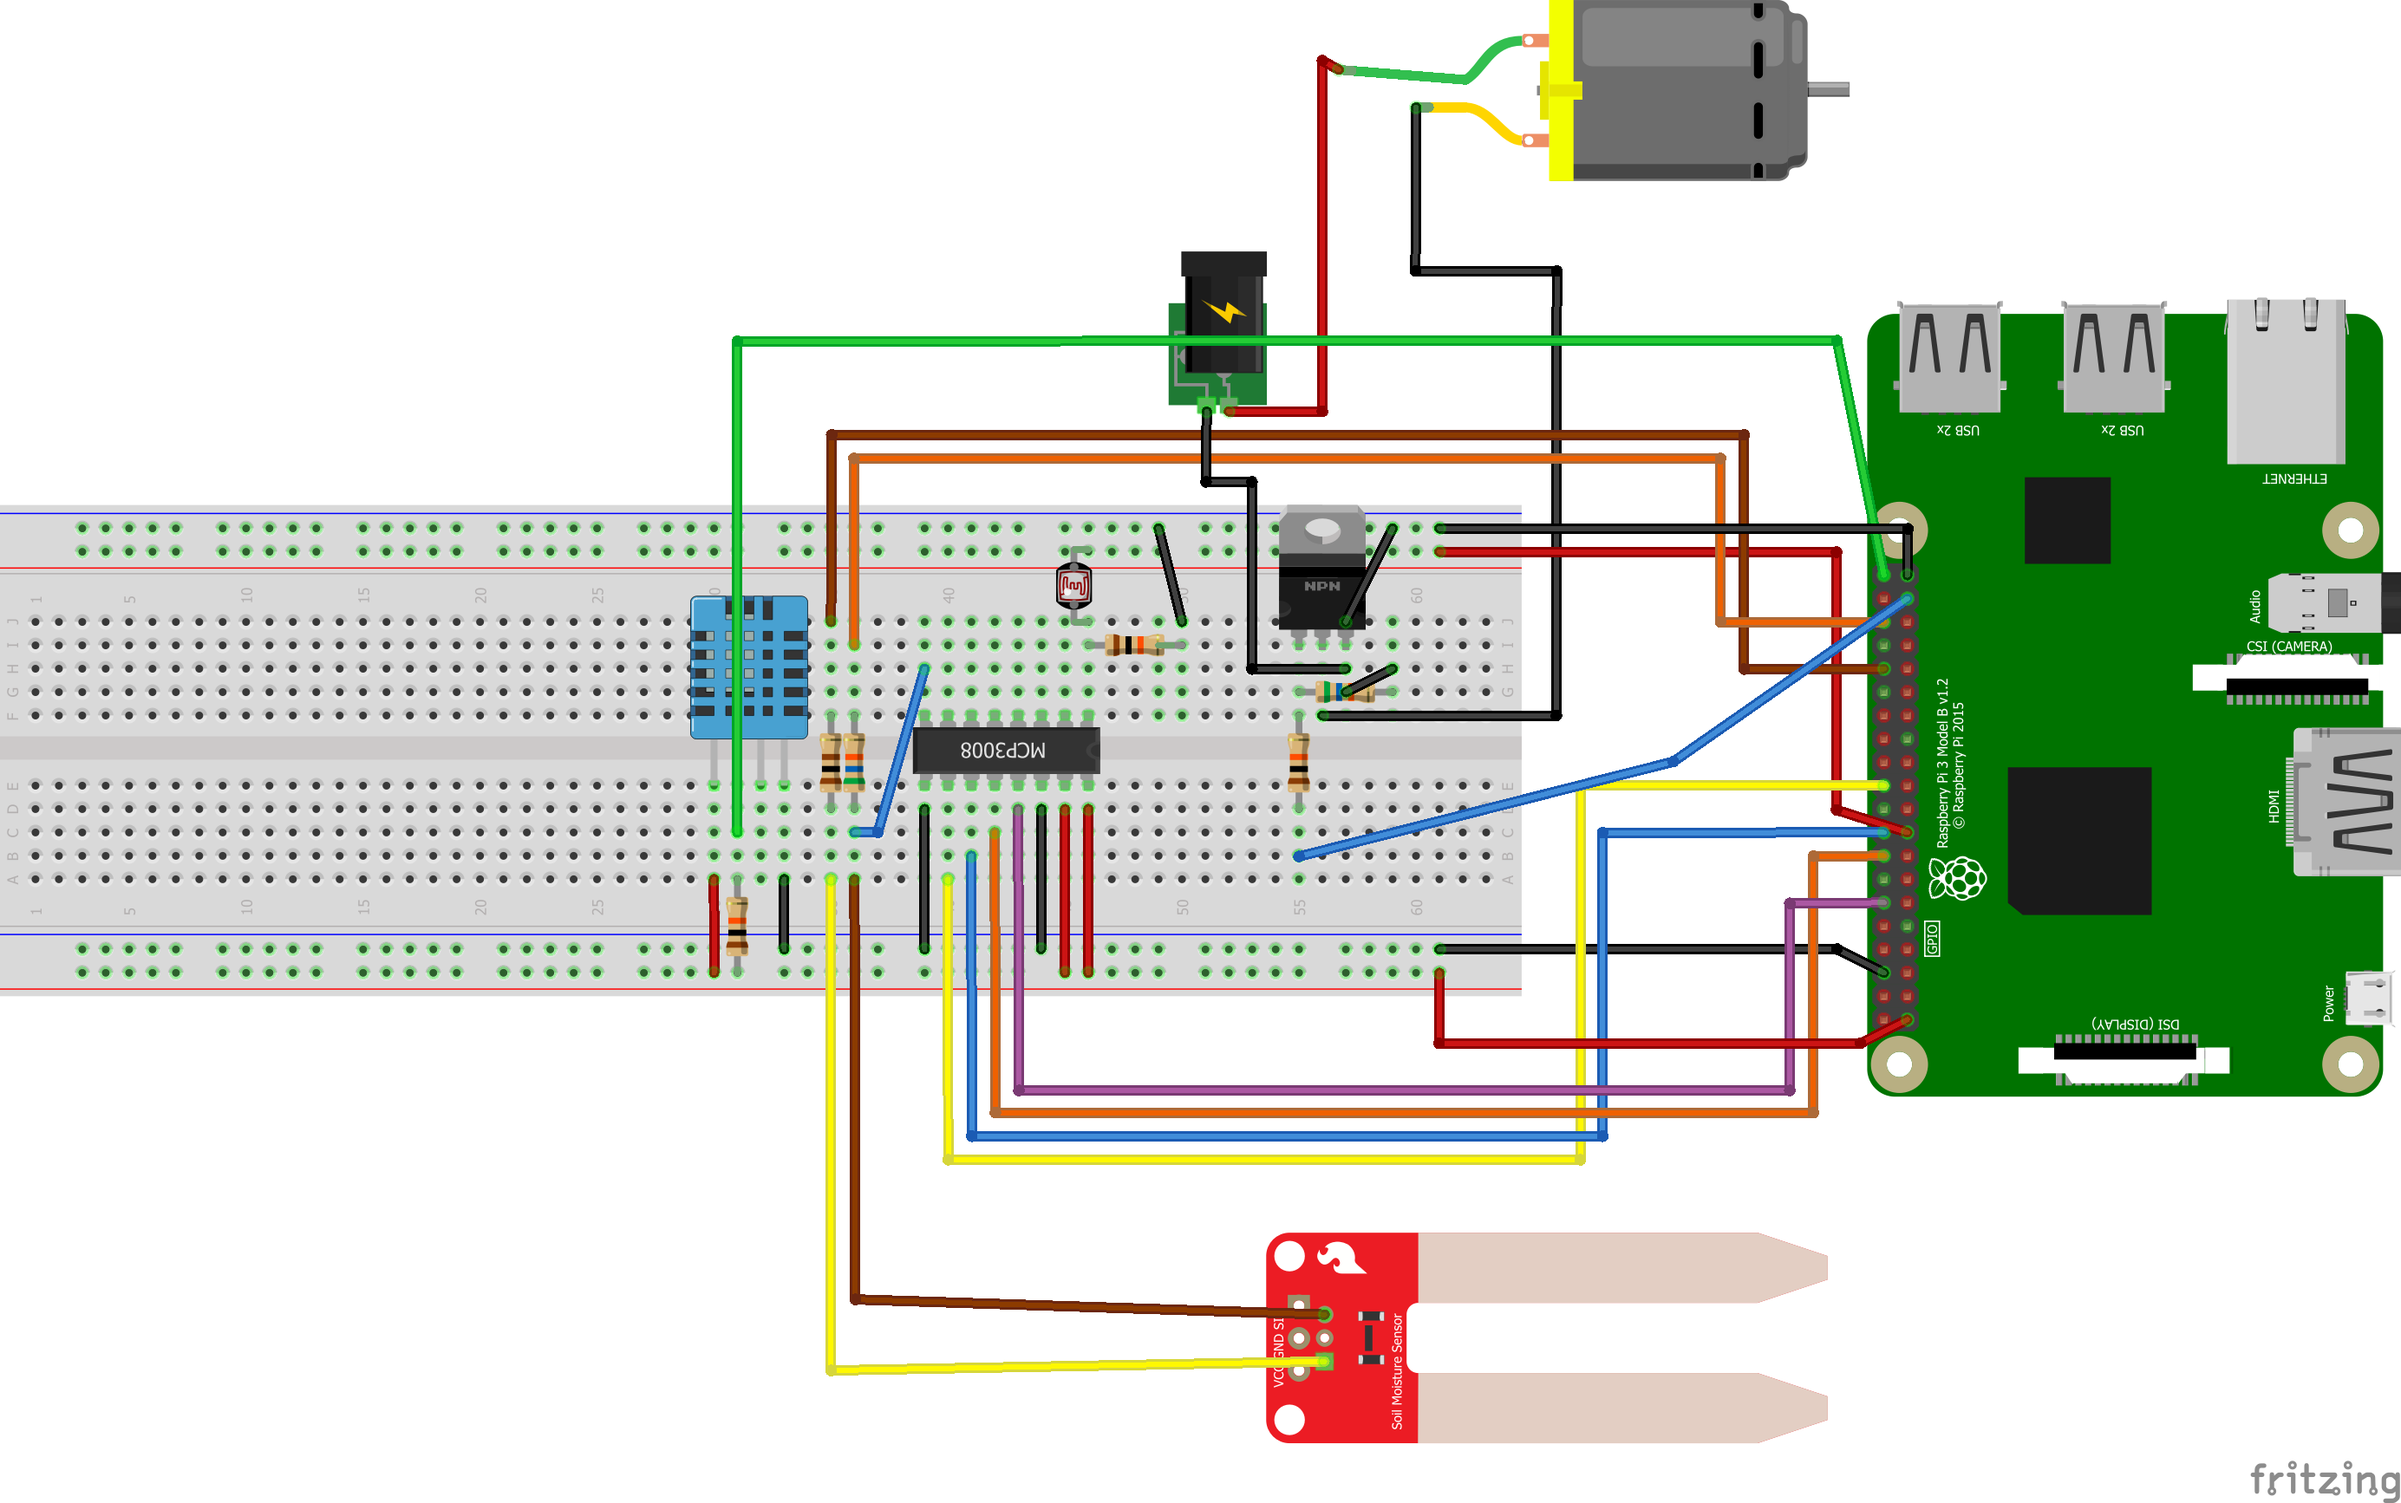
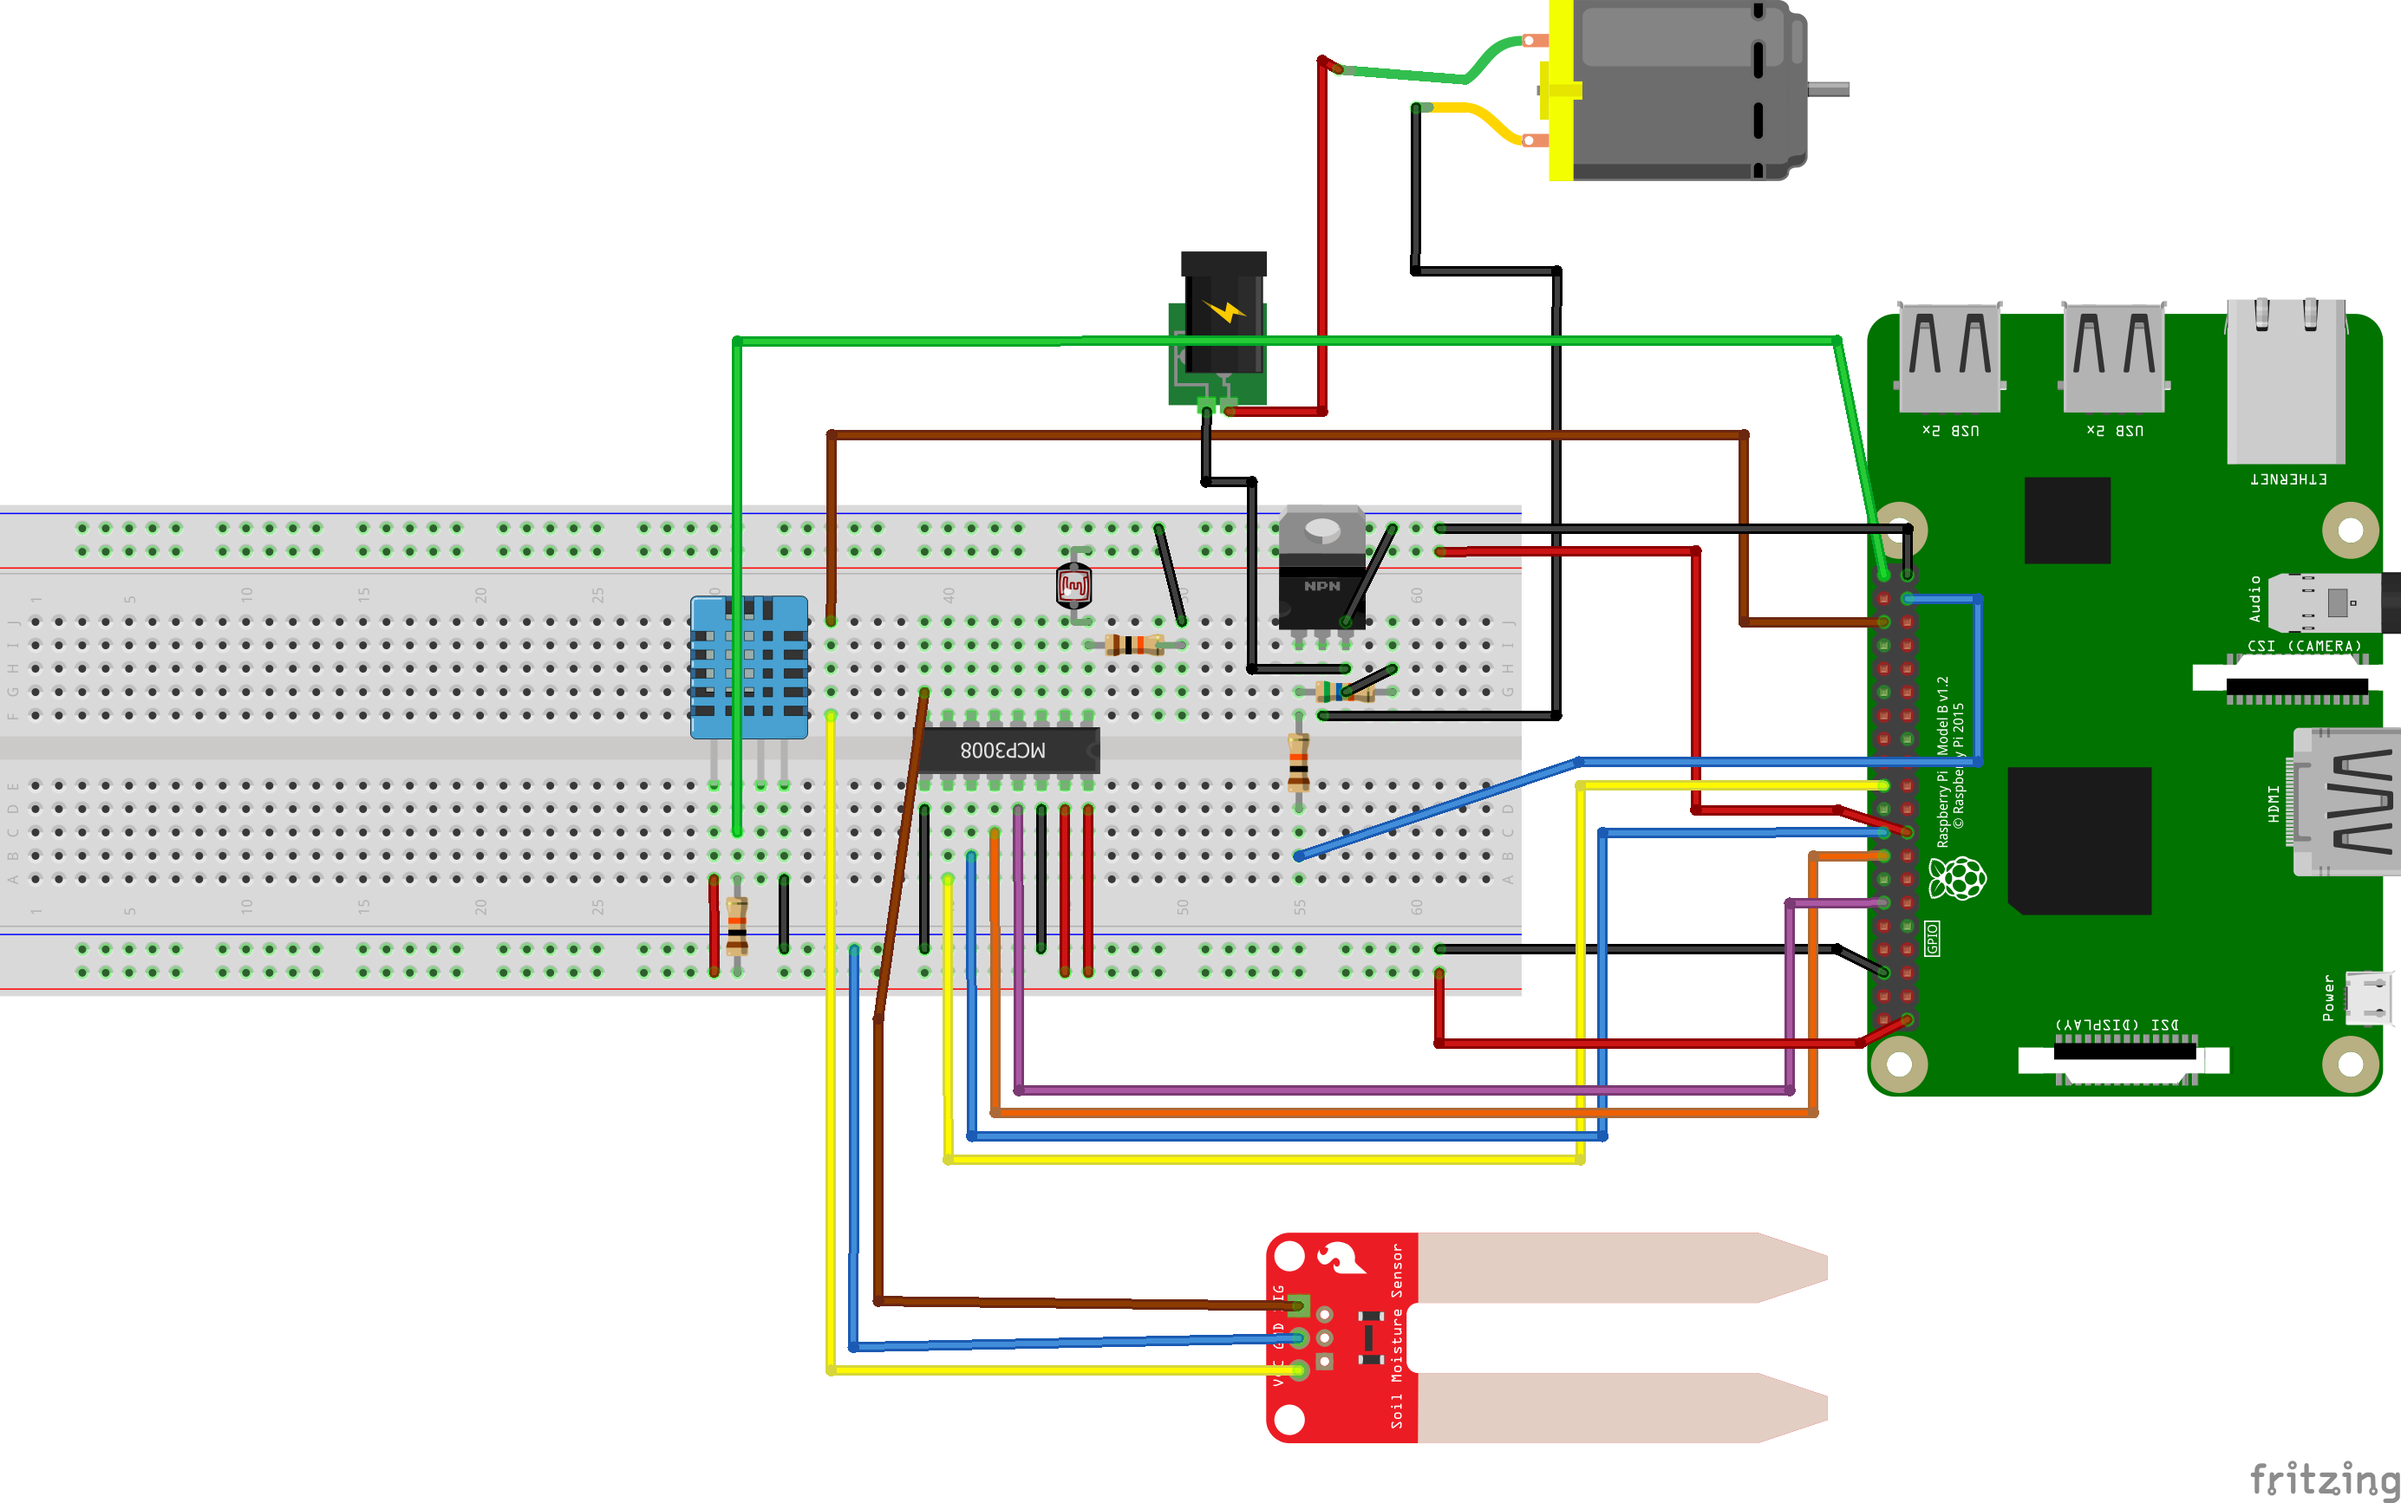
Switching from PlantFriends soil sensor to SparkFun (#146)
* Switching from PlantFriends soil sensor to SparkFun

Changes code to use the SparkFun soil moisture sensor instead of the
PlantFriends soil moisture sensor. The SparkFun cannot reverse its polarity
like the PlantFriends, so it is constantly connected to ground and only needs
one GPIO pin to flip up and down for readings.

Updates the code and the Fritzing diagram.

* Changing soil moisture GPIO pin to GPIO16

* Fixing pins -> pin

diff --git a/greenpithumb/soil_moisture_sensor.py b/greenpithumb/soil_moisture_sensor.py
@@ -6,7 +6,7 @@ logger = logging.getLogger(__name__)
 class SoilMoistureSensor(object):
     """Wrapper for a moisture sensor."""
 
-    def __init__(self, adc, pi_io, channel, gpio_pin_1, gpio_pin_2, clock):
+    def __init__(self, adc, pi_io, channel, gpio_pin):
         """Creates a new SoilMoistureSensor instance.
 
         Args:
@@ -15,43 +15,24 @@ class SoilMoistureSensor(object):
             pi_io: Raspberry Pi I/O interface.
             channel: ADC channel to which the moisture sensor is connected. Must
                 be an int between 0 and 7.
-            gpio_pin_1: One of the Raspberry Pi GPIO pins that the moisture
-                sensor is connected to. Must be an int between 2 and 27.
-            gpio_pin_2: The other GPIO pin that the moisture sensor is connected
-                to. Must be an int between 2 and 27.
-            clock: Clock interface.
+            gpio_pin: The Raspberry Pi GPIO pin that the moisture sensor is
+                connected to. Must be an int between 2 and 27.
         """
         self._adc = adc
         self._pi_io = pi_io
         self._channel = channel
-        self._gpio_pin_1 = gpio_pin_1
-        self._gpio_pin_2 = gpio_pin_2
-        self._clock = clock
+        self._gpio_pin = gpio_pin
 
     def soil_moisture(self):
         """Returns the soil moisture level.
 
-        Takes two readings from the moisture sensor with the GPIO pins powering
-        it alternately turned on and off (one in each state). Returns the
-        average of the two readings.
+        Takes a reading from the moisture sensor by powering the GPIO pin the
+        sensor is connected to.
         """
         try:
-            self._pi_io.turn_pin_on(self._gpio_pin_1)
-            self._pi_io.turn_pin_off(self._gpio_pin_2)
-            moisture_one = self._adc.read_adc(self._channel)
-            logger.info('soil moisture reading (1 of 2) = %d', moisture_one)
-
-            # We need to turn off both pins before the sleep so that the charge
-            # has time to dissipate before the next read.
-            self._pi_io.turn_pin_off(self._gpio_pin_1)
-            self._clock.wait(0.1)
-
-            self._pi_io.turn_pin_on(self._gpio_pin_2)
-            self._pi_io.turn_pin_off(self._gpio_pin_1)
-            moisture_two = 1023 - self._adc.read_adc(self._channel)
-            logger.info('soil moisture reading (2 of 2) = %d', moisture_two)
-
-            return (moisture_one + moisture_two) / 2
+            self._pi_io.turn_pin_on(self._gpio_pin)
+            moisture = self._adc.read_adc(self._channel)
+            logger.info('soil moisture reading = %d', moisture)
+            return moisture
         finally:
-            self._pi_io.turn_pin_off(self._gpio_pin_1)
-            self._pi_io.turn_pin_off(self._gpio_pin_2)
+            self._pi_io.turn_pin_off(self._gpio_pin)

diff --git a/tests/test_wiring_config_parser.py b/tests/test_wiring_config_parser.py
@@ -14,8 +14,7 @@ class WiringConfigParserTest(unittest.TestCase):
 [gpio_pins]
 pump: 26
 dht11: 21
-soil_moisture_1: 16
-soil_moisture_2: 12
+soil_moisture: 16
 mcp3008_clk: 18
 mcp3008_dout: 23
 mcp3008_din: 24
@@ -27,8 +26,7 @@ light_sensor: 6
 """)
         self.assertEquals(wiring_config.gpio_pins.pump, 26)
         self.assertEquals(wiring_config.gpio_pins.dht11, 21)
-        self.assertEquals(wiring_config.gpio_pins.soil_moisture_1, 16)
-        self.assertEquals(wiring_config.gpio_pins.soil_moisture_2, 12)
+        self.assertEquals(wiring_config.gpio_pins.soil_moisture, 16)
         self.assertEquals(wiring_config.gpio_pins.mcp3008_clk, 18)
         self.assertEquals(wiring_config.gpio_pins.mcp3008_dout, 23)
         self.assertEquals(wiring_config.gpio_pins.mcp3008_din, 24)
@@ -42,8 +40,7 @@ light_sensor: 6
 [gpio_pins]
 pump: 26
 dht11: 21
-soil_moisture_1: 16
-soil_moisture_2: 12
+soil_moisture: 16
 mcp3008_clk: 18
 mcp3008_dout: 23
 mcp3008_din: 24
@@ -81,8 +78,7 @@ light_sensor: 6
 [gpio_pins]
 
 dht11: 21
-soil_moisture_1: 16
-soil_moisture_2: 12
+soil_moisture: 16
 mcp3008_clk: 18
 mcp3008_dout: 23
 mcp3008_din: 24
@@ -101,8 +97,7 @@ light_sensor: 6
             wiring_config_parser.parse("""
 [gpio_pins]
 dht11: 21
-soil_moisture_1: 16
-soil_moisture_2: 12
+soil_moisture: 16
 mcp3008_clk: 18
 mcp3008_dout: 23
 mcp3008_din: 24
@@ -123,8 +118,7 @@ light_sensor: 6
 [gpio_pins]
 pump: 26
 dht11: 21
-soil_moisture_1: 16
-soil_moisture_2: 12
+soil_moisture: 16
 mcp3008_clk: 18
 mcp3008_dout: 23
 mcp3008_din: 24
@@ -143,8 +137,7 @@ light_sensor: 6
 [gpio_pins]
 pump: 26
 dht11: 21
-soil_moisture_1: 16
-soil_moisture_2: 12
+soil_moisture: 16
 mcp3008_clk: 18
 mcp3008_dout: 23
 mcp3008_din: 24
@@ -163,8 +156,7 @@ soil_moisture_sensor: -1
 [gpio_pins]
 pump: 26
 dht11: 21
-soil_moisture_1: 16
-soil_moisture_2: 12
+soil_moisture: 16
 mcp3008_clk: 18
 mcp3008_dout: 23
 mcp3008_din: 24
@@ -183,8 +175,7 @@ soil_moisture_sensor: 8
 [gpio_pins]
 pump: 26
 dht11: 21
-soil_moisture_1: 16
-soil_moisture_2: 12
+soil_moisture: 16
 mcp3008_clk: 18
 mcp3008_dout: 23
 mcp3008_din: 24
@@ -203,8 +194,7 @@ soil_moisture_sensor: banana
 [gpio_pins]
 pump: 26
 dht11: 21
-soil_moisture_1: 16
-soil_moisture_2: 12
+soil_moisture: 16
 mcp3008_clk: 18
 mcp3008_dout: 23
 mcp3008_din: 24

diff --git a/tests/test_soil_moisture_sensor.py b/tests/test_soil_moisture_sensor.py
@@ -21,40 +21,27 @@ class MoistureSensorTest(unittest.TestCase):
         self.mock_pi_io = mock.Mock()
         self.mock_pi_io.turn_pin_on.side_effect = mock_turn_pin_on
         self.mock_pi_io.turn_pin_off.side_effect = mock_turn_pin_off
-        self.mock_clock = mock.Mock()
 
     def test_moisture_read_succeeds_when_adc_succeeds(self):
-        """Moisture level read should be the average of the two readings."""
-        self.mock_adc.read_adc.side_effect = [300, (1023 - 400)]
+        self.mock_adc.read_adc.return_value = 350
         channel = 1
-        gpio_pin_1 = 12
-        gpio_pin_2 = 16
+        gpio_pin = 12
         sensor = soil_moisture_sensor.SoilMoistureSensor(
-            self.mock_adc, self.mock_pi_io, channel, gpio_pin_1, gpio_pin_2,
-            self.mock_clock)
+            self.mock_adc, self.mock_pi_io, channel, gpio_pin)
 
         self.assertEqual(350, sensor.soil_moisture())
-        self.assertEqual([mock.call(12), mock.call(16)],
-                         self.mock_pi_io.turn_pin_on.call_args_list)
-        self.assertEqual([
-            mock.call(16), mock.call(12), mock.call(12), mock.call(12),
-            mock.call(16)
-        ], self.mock_pi_io.turn_pin_off.call_args_list)
+        self.mock_pi_io.turn_pin_on.assert_called_once_with(12)
+        self.mock_pi_io.turn_pin_off.assert_called_once_with(12)
         self.assertFalse(self.pin_state[12])
-        self.assertFalse(self.pin_state[16])
-        self.mock_clock.wait.assert_called_once_with(0.1)
 
     def test_moisture_sensor_pins_turned_off_if_adc_raises_exception(self):
         self.mock_adc.read_adc.side_effect = ValueError()
         channel = 1
-        gpio_pin_1 = 12
-        gpio_pin_2 = 16
+        gpio_pin = 12
         sensor = soil_moisture_sensor.SoilMoistureSensor(
-            self.mock_adc, self.mock_pi_io, channel, gpio_pin_1, gpio_pin_2,
-            self.mock_clock)
+            self.mock_adc, self.mock_pi_io, channel, gpio_pin)
 
         with self.assertRaises(ValueError):
             sensor.soil_moisture()
 
         self.assertFalse(self.pin_state[12])
-        self.assertFalse(self.pin_state[16])

diff --git a/greenpithumb/wiring_config_parser.py b/greenpithumb/wiring_config_parser.py
@@ -30,8 +30,8 @@ class DuplicateAdcChannelError(Error):
 
 # Represents GreenPiThumb's Rapsberry Pi GPIO pin configuration.
 _GpioPinConfig = collections.namedtuple('_GpioPinConfig', [
-    'pump', 'dht11', 'soil_moisture_1', 'soil_moisture_2', 'mcp3008_clk',
-    'mcp3008_dout', 'mcp3008_din', 'mcp3008_cs_shdn'
+    'pump', 'dht11', 'soil_moisture', 'mcp3008_clk', 'mcp3008_dout',
+    'mcp3008_din', 'mcp3008_cs_shdn'
 ])
 
 
@@ -173,8 +173,7 @@ def parse(config_data):
         A wiring configuration object with the following properties:
             * gpio_pins.pump
             * gpio_pins.dht11
-            * gpio_pins.soil_moisture_1
-            * gpio_pins.soil_moisture_2
+            * gpio_pins.soil_moisture
             * gpio_pins.mcp3008_clk
             * gpio_pins.mcp3008_dout
             * gpio_pins.mcp3008_din
@@ -188,10 +187,8 @@ def parse(config_data):
         gpio_pin_config = _GpioPinConfig(
             pump=_parse_gpio_pin(raw_parser.get('gpio_pins', 'pump')),
             dht11=_parse_gpio_pin(raw_parser.get('gpio_pins', 'dht11')),
-            soil_moisture_1=_parse_gpio_pin(
-                raw_parser.get('gpio_pins', 'soil_moisture_1')),
-            soil_moisture_2=_parse_gpio_pin(
-                raw_parser.get('gpio_pins', 'soil_moisture_2')),
+            soil_moisture=_parse_gpio_pin(
+                raw_parser.get('gpio_pins', 'soil_moisture')),
             mcp3008_clk=_parse_gpio_pin(
                 raw_parser.get('gpio_pins', 'mcp3008_clk')),
             mcp3008_din=_parse_gpio_pin(

diff --git a/greenpithumb/greenpithumb.py b/greenpithumb/greenpithumb.py
@@ -74,8 +74,7 @@ def make_sensor_pollers(poll_interval, wiring_config, moisture_threshold,
             soil_moisture_sensor.SoilMoistureSensor(
                 adc,
                 pi_io.IO(GPIO), wiring_config.adc_channels.soil_moisture_sensor,
-                wiring_config.gpio_pins.soil_moisture_1,
-                wiring_config.gpio_pins.soil_moisture_2, utc_clock),
+                wiring_config.gpio_pins.soil_moisture),
             pump_manager), poller_factory.create_light_poller(
                 light_sensor.LightSensor(
                     adc, wiring_config.adc_channels.light_sensor)),
